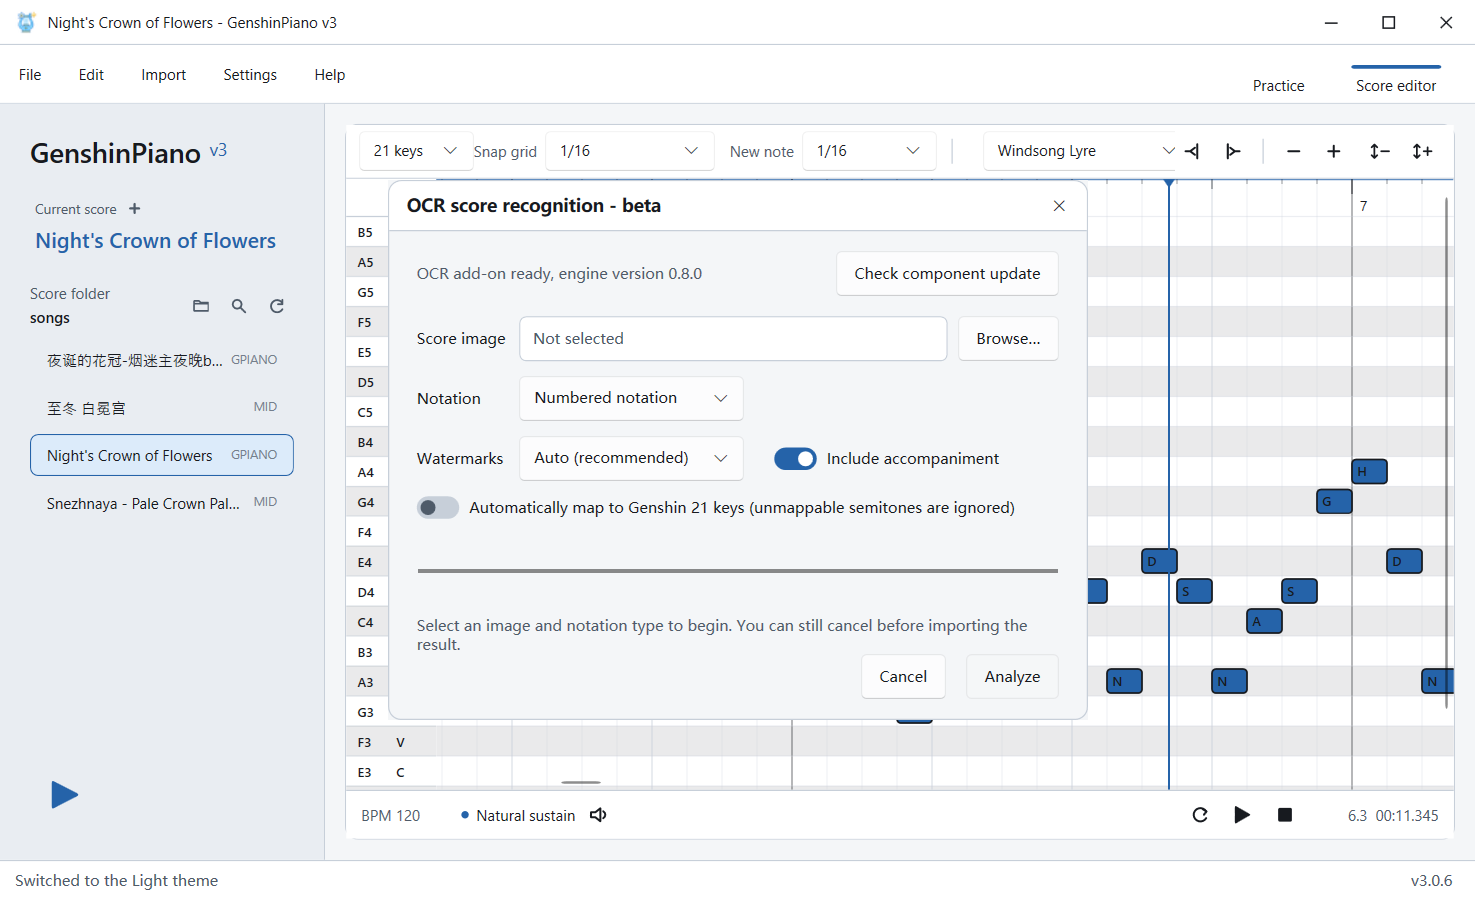
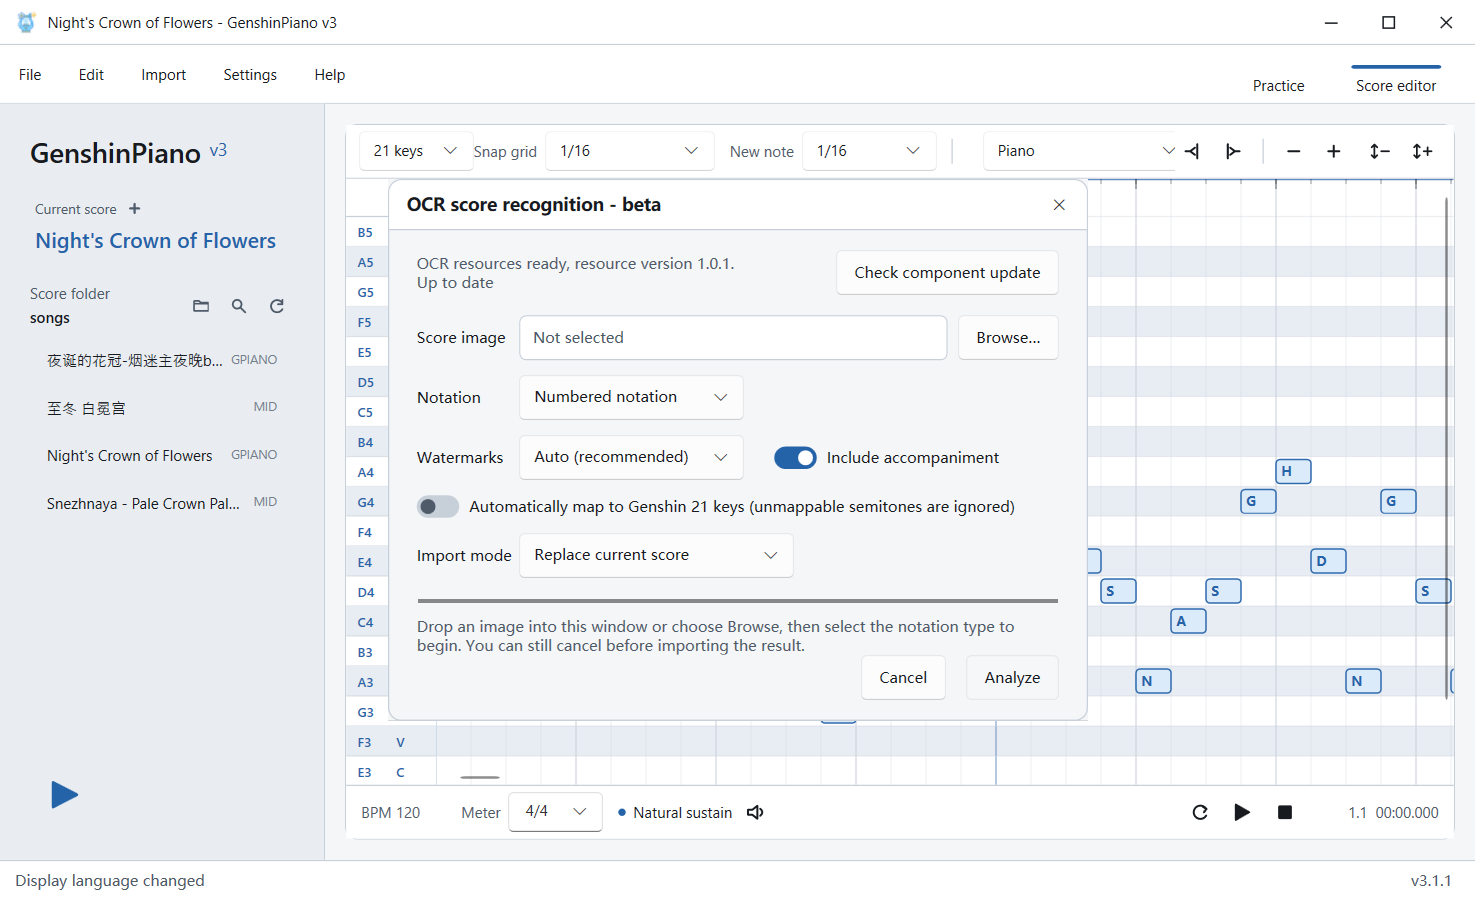
docs: update appearance guide and interface screenshots

diff --git a/docs/USER_GUIDE.md b/docs/USER_GUIDE.md
@@ -16,6 +16,8 @@
 
 软件采用便携模式，设置、日志、更新缓存和附加组件均保存在程序目录中。不建议放入 `C:\Program Files`。
 
+“设置 → 配色”提供经典蓝、青绿、紫色、暖橙和粉色五套预设，可与“设置 → 主题”中的深色、浅色模式自由组合。切换即时生效并自动保存，旧配置默认使用经典蓝。
+
 ### 文件与曲谱库
 
 - `Ctrl + N`：新建曲谱。
@@ -58,6 +60,7 @@
 - `Shift + 滚轮`：横向滚动。
 - `Ctrl + Shift + 滚轮`：垂直缩放。
 - 底部可调整 BPM、自然延音、音量和本地试听音色。
+- 底部“拍号”可选择或输入起始拍号（如 `3/4`、`6/8`），按 Enter 应用、Esc 取消；修改支持撤销，保留后续拍号变化和音符时间。标尺、小节线及右下角“小节.拍”编号会随曲谱拍号更新；6/8 的拍编号按八分音符计为 1–6，标尺在中途变拍号处标注新拍号。无拍号信息时使用 4/4。
 - 游戏内采样音色在列表中始终显示；它们适用于“21 键”视图，在“88 键”和“曲谱音域”视图中会显示为不可选，悬停可查看说明。切回“21 键”即可使用。
 - “设置 → 卷帘帧率”可选择 30 FPS、60 FPS 或垂直同步。
 
@@ -158,6 +161,10 @@ type and start recognition, then review and confirm import. Images cannot be rep
 recognition. Each drop uses the first supported file; the OCR window only accepts images.
 The main window does not accept file drops during playback or local audition.
 
+**Settings → Color scheme** offers Classic blue, Teal, Purple, Warm orange, and Pink. Each works
+with either Light or Dark mode under **Settings → Theme**. Changes apply immediately and are
+saved automatically. Existing configurations default to Classic blue.
+
 ### Files and score folder
 
 - `Ctrl + N`: new score; `Ctrl + O`: open; `Ctrl + Shift + S`: save as.
@@ -189,6 +196,11 @@ The main window does not accept file drops during playback or local audition.
 - `Ctrl + wheel`: horizontal zoom; `Shift + wheel`: horizontal scroll;
   `Ctrl + Shift + wheel`: vertical zoom.
 - BPM, sustain, volume, instrument, and render frame rate can be adjusted in the editor/settings.
+- The bottom **Meter** field sets the initial time signature, such as `3/4` or `6/8`. Select a
+  preset or type and press Enter; Esc cancels. Changes support undo and preserve later meter
+  changes and note timing. The ruler, bar lines, and bar.beat position follow the score's meters;
+  6/8 counts eighth-note beats 1–6. Later meter changes are labeled on the ruler. Scores without
+  meter information use 4/4.
 - Sampled game instruments always remain in the list. They are selectable in the 21-key view;
   in 88-key and score-range views they are disabled with an explanatory tooltip. Switch back to
   21 keys to use them.
